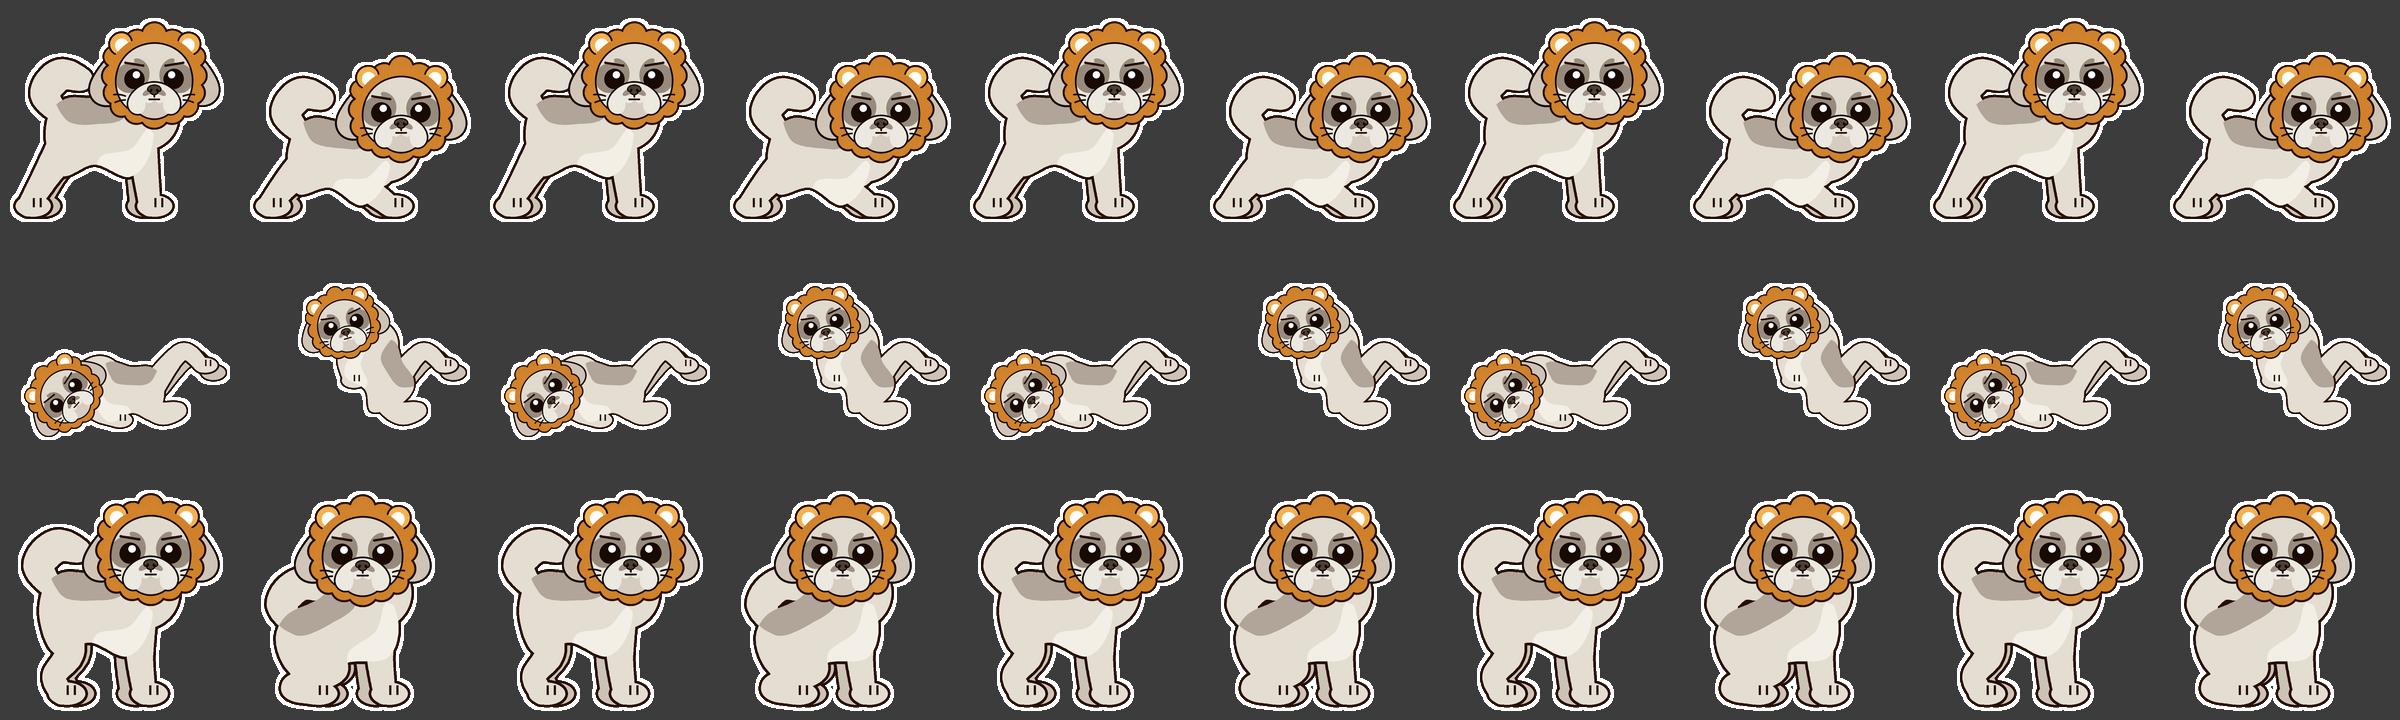
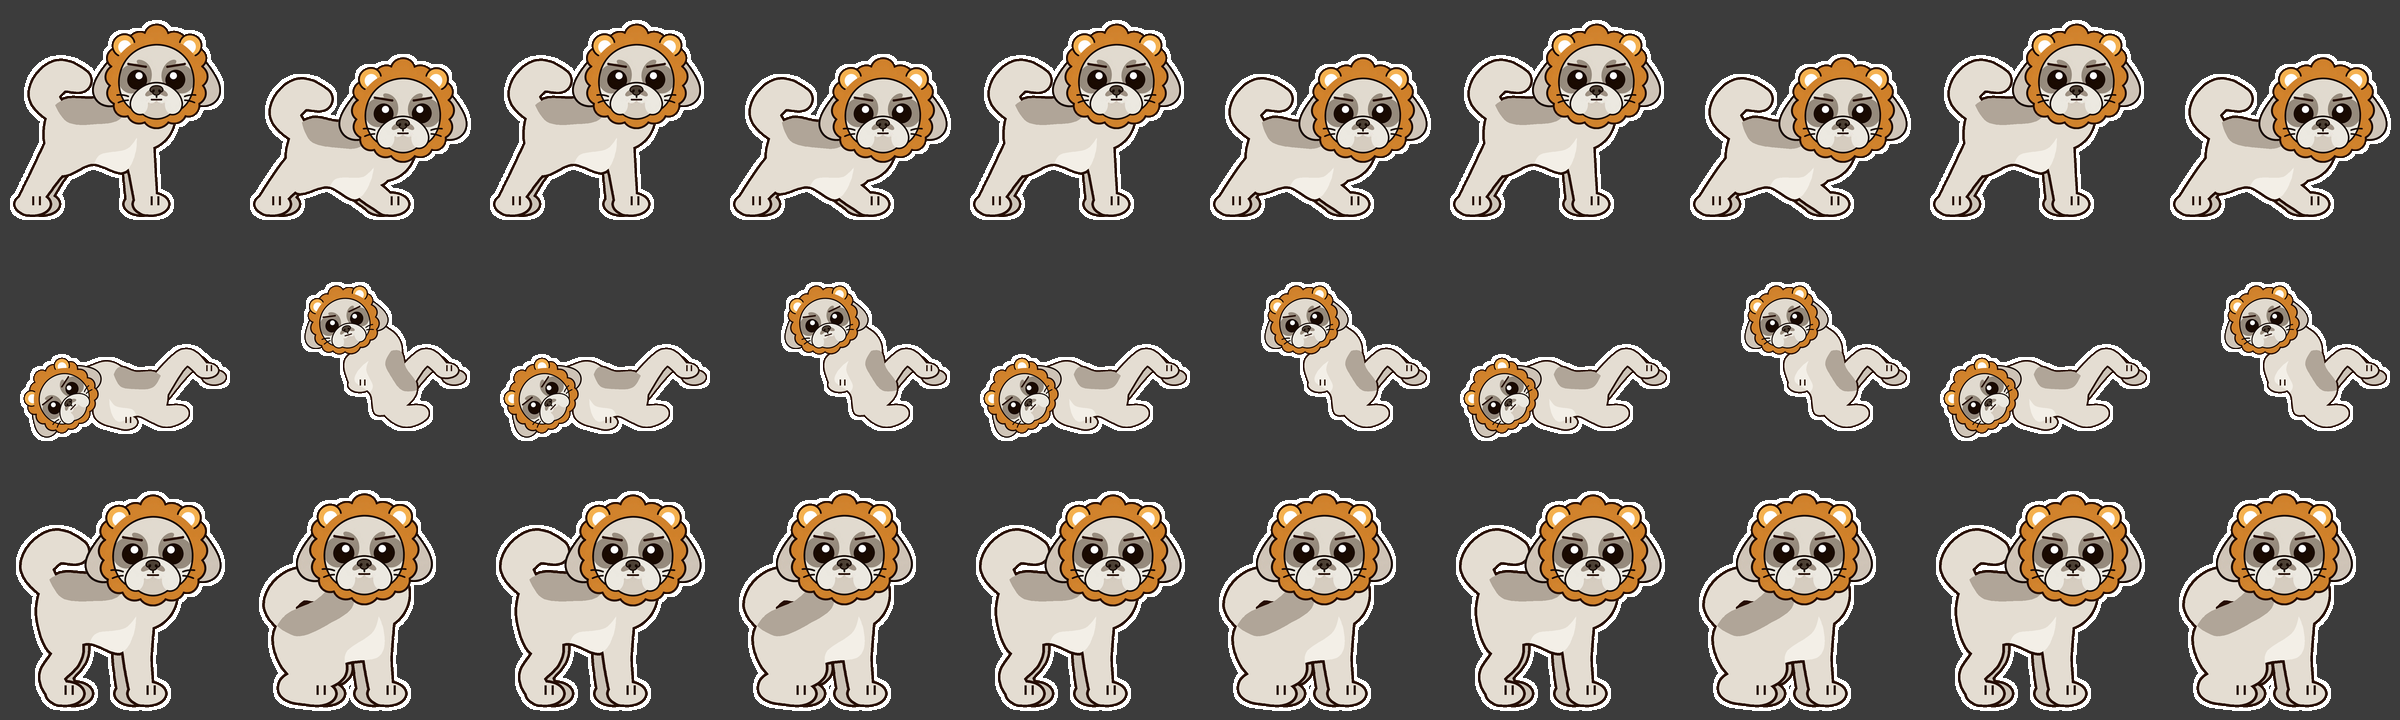
Smooth the chin-to-chest join on 'kintore' dog
Claude-Session: https://claude.ai/code/session_01KX3WDfyPkAofSs6dqvGAmw

diff --git a/.claude/skills/stamp-create/SKILL.md b/.claude/skills/stamp-create/SKILL.md
@@ -116,7 +116,7 @@ print(ms.verify("assets/gif/名前.gif"))                     # 検証
   - 輪郭は形から一定距離の範囲を距離計算（`distance_transform_edt`）で求めて塗る（`MaxFilter` は大きな画像だと非常に遅い）
   - **体は1つの形にまとめる**（ユーザーの好み。脚を1本ずつ別の輪郭で描くと、関節やつなぎ目に線が出てチープに見える）：手前の脚・胴体・首・しっぽを**1つの形（マスク）に合体**させてから、輪郭を1回だけ付けて塗る。奥の脚もまとめて1つの形にし、少し暗い色で後ろに描く。背中の模様と胸の明るい毛は胴体の部分だけに塗り、手前の脚には足先の指の切れ目だけ描く
   - 描く順番：奥の脚（まとめて）→ 手前の体全部（胴体＋首＋しっぽ＋手前の脚を合体）→ 模様 → 指の切れ目 → 頭
-  - **頭と首のつながり**：細い首の先に頭を乗せると不自然。首は太く短く（幅260px）、頭の中心まで伸ばして頭の裏に隠し、頭は低めに置いて、たてがみの下側を胸の上に重ねる（頭が体から自然に生えて見える）
+  - **頭と首のつながり**：細い首の先に頭を乗せると不自然。首は太く短く（幅260px）、頭の中心まで伸ばして頭の裏に隠し、頭は低めに置いて、たてがみの下側を胸の上に重ねる（頭が体から自然に生えて見える）。胸の前のふくらみは控えめにして頭の下に収め、頭を少し前に出してたてがみで胸の付け根を覆う（胸が頭より前に張り出すと、顎の下の出っ張りに見える）
   - **手足と胴体は短め**：頭の大きさと胴体の太さはそのままに、横方向（胴体・手足の前後の長さ）と脚の高さを約8割に縮めると、ずんぐり可愛い
   - **真顔**（「真顔で」と言われたら）：丸い目はそのまま、笑った口を消して一文字の口、眉は内側が少し下がるキリッとした太線。汗のしずくは残してよい
   - **可愛いバランス**（「気持ち悪い」と言われたら）：長く細い脚はやめ、丸くぽってりした胴体（太さ175）・短めで少し太い脚（太さ1.2倍。1.45倍だと体の形が埋もれる）・短い首で、頭（0.5倍）が体にちょこんと乗る約2.5頭身にする
